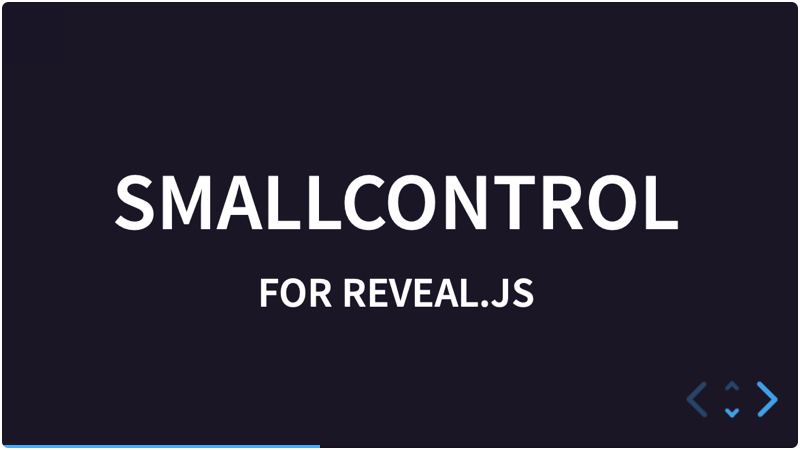
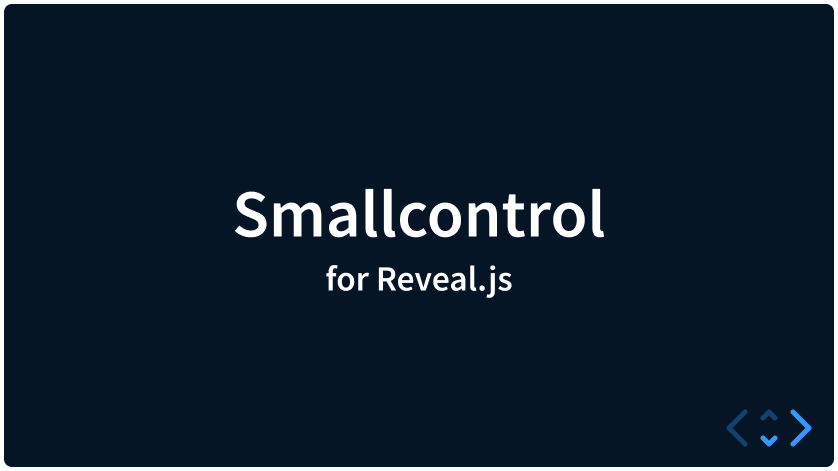
Version 1.1.0

diff --git a/demo/assets/css/demo.css b/demo/assets/css/demo.css
@@ -1,0 +1,1 @@
+.reveal{opacity:0;transition:opacity 1s}.print-pdf .reveal{opacity:1;transition:none}.reveal.ready{opacity:1}.centerblock{flex-direction:column;height:100%;min-height:100%;margin:auto;display:flex}ol.twocol,.twocol{counter-reset:item;column-count:2;column-rule:2px solid #ffffff1f;column-gap:2em;width:80%;margin:0 auto;padding:0;list-style:none}ol.twocol li,.twocol li{counter-increment:item;padding-left:1.7em}ol.twocol li:before,.twocol li:before{content:counter(item) ".";text-align:right;width:1.2em;margin-left:-1.7em;margin-right:.5em;display:inline-block}.reveal pre{font-size:calc(.5 * var(--r-main-font-size))}.small,.reveal small{font-size:calc(.7 * var(--r-main-font-size))}.small code,.reveal small code,p code,ul li code{font-size:.7em}i{font-style:italic}.slides p a,.slides ol li a,.slides ul li a{text-underline-offset:.15em;text-decoration:underline}.reveal code.hljs{background:var(--code-full-bg);white-space:pre-wrap;border-radius:.5em;padding:.5em}.reveal code.hljs td{line-height:1.4}p.code,p code,small code,.small code,li code{background:var(--code-rgba-bg);border-radius:.25em;padding:.15em .25em}.reveal pre{width:100%}.reveal pre code{word-wrap:normal;tab-size:4;max-height:400px;padding:5px;display:block;overflow:auto}:root{--r-background-color:#051525;--r-heading-text-transform:none;--r-heading1-size:2.7em;--r-main-font-size:36px;--r-block-margin:1.8rem;--code-full-bg:#142433;--code-rgba-bg:#5b66704d;--r-link-color:#39f;--r-link-color-dark:#08d;--r-link-color-hover:#adf}.has-light-background{--r-link-color:var(--r-link-color-dark);--r-link-color-hover:#0373bd}.embeddemo{flex-direction:column;align-items:center;gap:64px;margin:0 auto;padding:64px 128px;display:flex}.reveal.embedded{border:1px solid #fff;border-radius:8px;width:100%;min-width:390px;max-width:768px;height:400px;transition:border-color .15s ease-in-out,box-shadow .15s ease-in-out,opacity .15s ease-in-out}.reveal.embedded:not(.focused){cursor:pointer}.reveal.embedded.reveal-scroll{height:400px}.reveal.embedded .progress{background:#4499ee4d;border-radius:.25em;width:calc(100% - 1em);height:.3em;font-size:10px;bottom:.5em;left:.5em;right:.5em;overflow:hidden}.reveal.embedded:hover{border-color:var(--r-link-color)}.reveal.embedded.focused{border-color:var(--r-link-color);box-shadow:0 0 0px 2px var(--r-link-color), 0 4px 16px black}.reveal.embedded:fullscreen.focused{border-color:#0000;box-shadow:0 4px 16px #000}.reveal.embedded:not(.focused):not(:hover){--r-link-color:gray;opacity:.8}.reveal.embedded:not(.focused):not(:hover) .progress{background:#8080804d}a.github-corner{color:var(--r-main-color);opacity:.25;transition:opacity .2s ease-in-out}a.github-corner{pointer-events:initial;z-index:2;border:none;flex-direction:column;width:max-content;height:max-content;padding:0;line-height:0;display:flex;position:sticky;top:0}.rtl a.github-corner{margin:0 0 0 auto;left:auto;right:0}a.github-corner.bottom{margin-top:auto;position:sticky;top:calc(100% - 78px)}a.github-corner{opacity:.5;color:var(--c-theme-color,white);transition:opacity .3s}.reveal.embedded a.github-corner,.reveal-viewport.reveal-scroll a.github-corner{display:none}a.github-corner svg{width:75px;height:75px;line-height:0}a.github-corner:hover{color:var(--c-theme-color,white);opacity:1}html.index{color:#fff;background:var(--r-background-color,#051525);font-family:Source Sans Pro,Helvetica,sans-serif;font-size:var(--r-main-font-size,36px);flex-direction:column;justify-content:center;align-items:center;min-height:100vh;margin:0;display:flex}html.index .fileindex{flex-direction:column;margin:0 auto;display:inline-flex}html.index a{color:#42affa;font-size:var(--r-main-font-size,36px);line-height:1.4}html.index a:hover{color:#8dcffc}section.has-light-background,section.has-light-background h1,section.has-light-background h2,section.has-light-background h3,section.has-light-background h4,section.has-light-background p{color:#006400}

diff --git a/demo/demo-simplemenu.html b/demo/demo-simplemenu.html
@@ -25,24 +25,26 @@
         </section>
         <section class="center" data-name="Vertical">
           <section class="center">
-            <h2>The controls moved</h2>
-            <p>They are in the bar now, on the right</p>
+            <h2>If you use Simplemenu...</h2>
+            <p>...and add .controls to it, the controls (the navigation arrows) move into the bar. Not just Smallcontrol. Normal controls too.</p>
           </section>
           <section class="center">
-            <p>They take the colour of the bar</p>
+            <p>The controls then get the colours as defined for the bar.</p>
           </section>
           <section class="center">
-            <p>And keep working as before</p>
+            <p>And keep working as before.</p>
           </section>
         </section>
         <section class="center" data-name="Light" data-background-color="#fff">
           <h2>On a light slide</h2>
-          <p>The bar turns around, and the controls with it.</p>
+          <p>That works too.</p>
         </section>
         <section data-name="Setup">
           <section>
-            <h4>A placeholder in the bar</h4>
-            <p class="small">Put a <code>div</code> with the class <code>controls</code> in the bar, and Simplemenu moves Reveal’s controls into it. Smallcontrol does the rest.</p>
+            <h3>Setup</h3>
+          </section>
+          <section>
+            <p class="small">If you put a <code>div</code> with the class <code>controls</code> in the bar, then Simplemenu moves Reveal’s controls into it. Smallcontrol does the rest.</p>
             <pre><code class="hljs javascript" data-line-numbers>Reveal.initialize({
 	simplemenu: {
 		barhtml: {

diff --git a/demo/demo.html b/demo/demo.html
@@ -75,8 +75,8 @@
           </section>
           <section>
             <h3>Scaling</h3>
-            <p class="small">Reveal draws its controls at the same size, however large it draws the slides. On a big screen they end up small and far away.</p>
-            <p class="small">With <code>autoscale</code>, they grow along with the slides, up to twice their size, or what you set with <code>maxscale</code>. This deck has it on: make the window larger to see it.</p>
+            <p class="small">Reveal always shows the controls at the same size, no matter how large the screen is. On a big screen that might be small and far away.</p>
+            <p class="small">With <code>autoscale</code>, you can let Smallcontrol grow along with the slides, up to twice their size, or whatever you set as a maximum with <code>maxscale</code>. This deck has it on: make the window larger to see it.</p>
             <pre><code class="hljs javascript" data-line-numbers>Reveal.initialize({
 	//...
 	smallcontrol: {

diff --git a/src/demo/style/demo.scss b/src/demo/style/demo.scss
@@ -1,0 +1,14 @@
+@use "includes/_base";
+@use "includes/_embedded";
+@use "includes/_githubcorner";
+@use "includes/_indexpage";
+
+section.has-light-background {
+
+    color: darkgreen;
+    
+    h1, h2, h3, h4, p {
+        color: darkgreen;
+    }
+
+}
